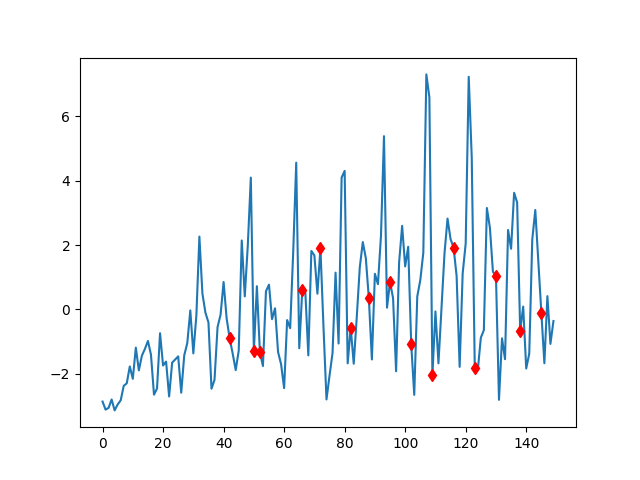
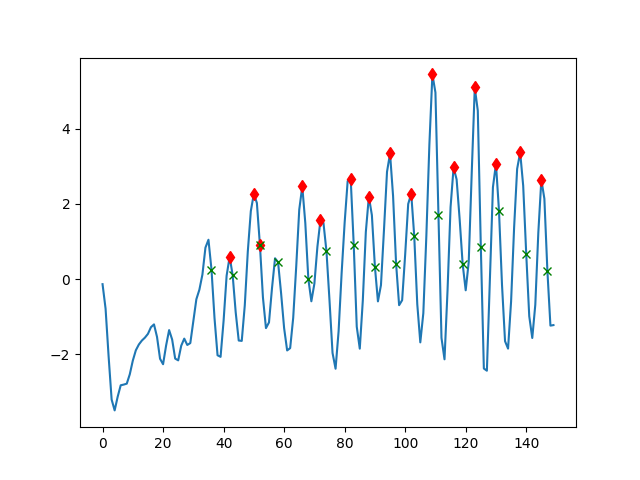
-

diff --git a/compscieng/compscieng_app40walk/test2.md b/compscieng/compscieng_app40walk/test2.md
@@ -88,8 +88,9 @@ for i in range(1, np.size(transitions)):
         strike_indices_smooth.append(segment[imax])
 
 f=plt.figure()
-plt.plot(data)
-plt.plot(strike_indices_smooth,data[strike_indices_smooth],'rd')
+plt.plot(filtered)
+plt.plot(strike_indices_smooth,filtered[strike_indices_smooth],'rd')
+plt.plot(transitions,filtered[transitions],'gx')
 plt.savefig('out3.png')
 
 # Compute number of samples between peaks using the real part of the FFT:
